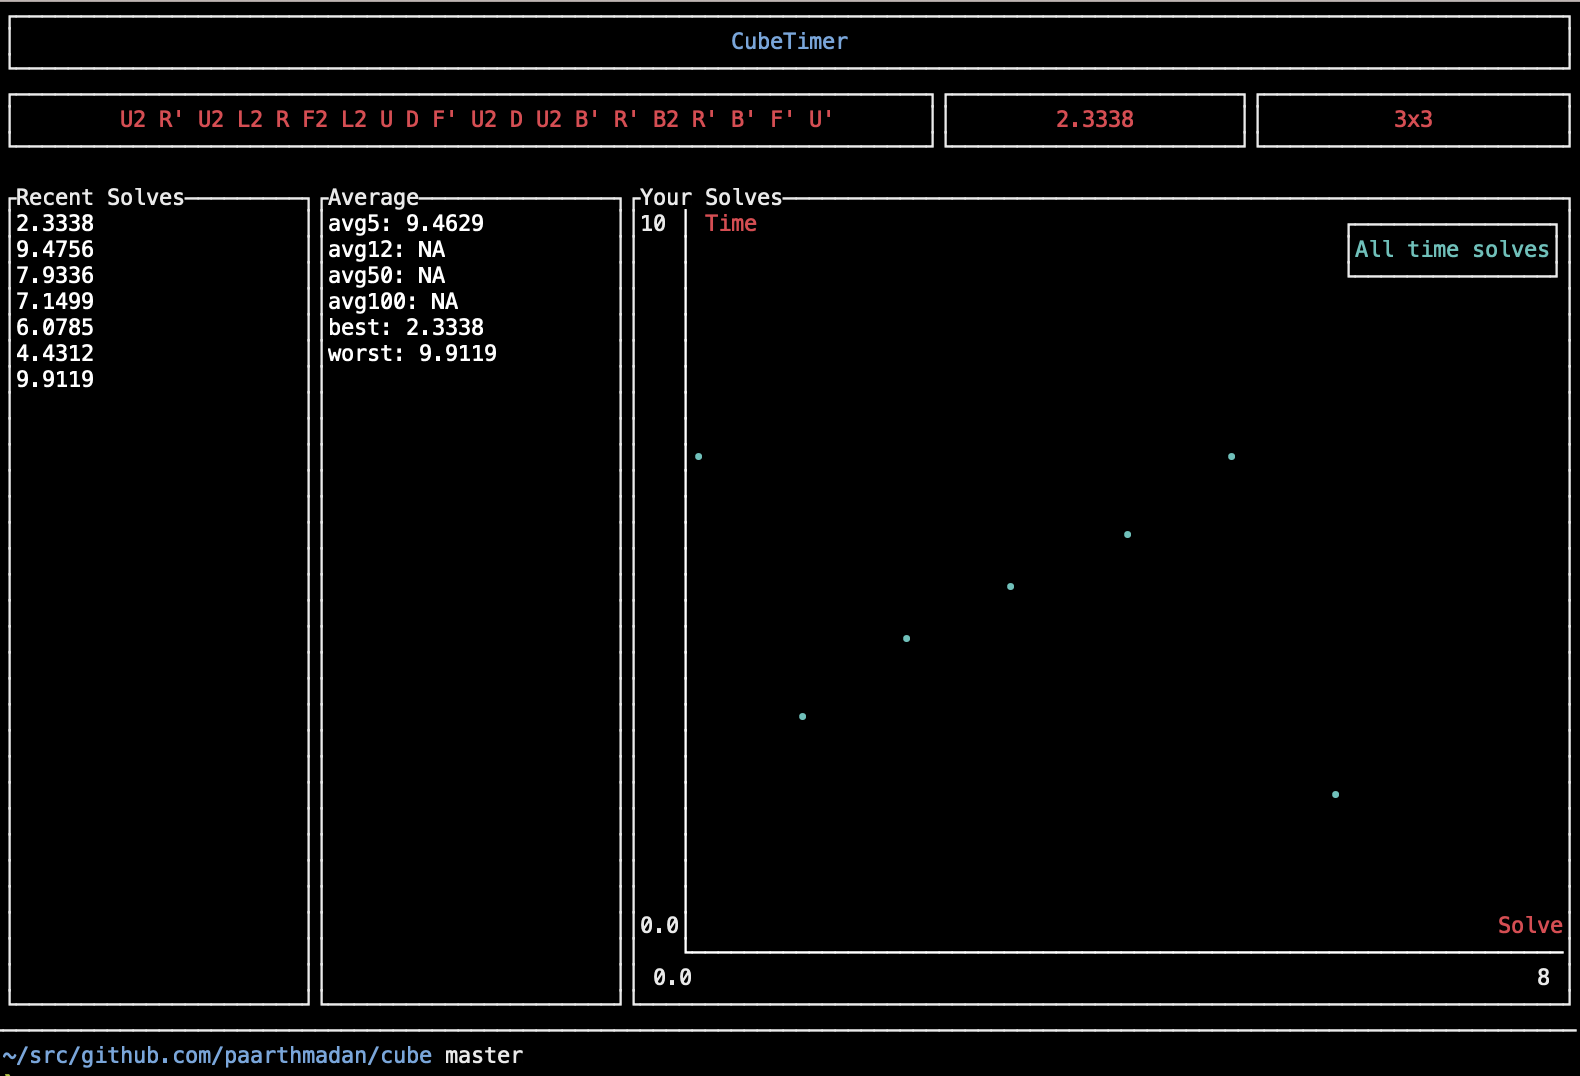
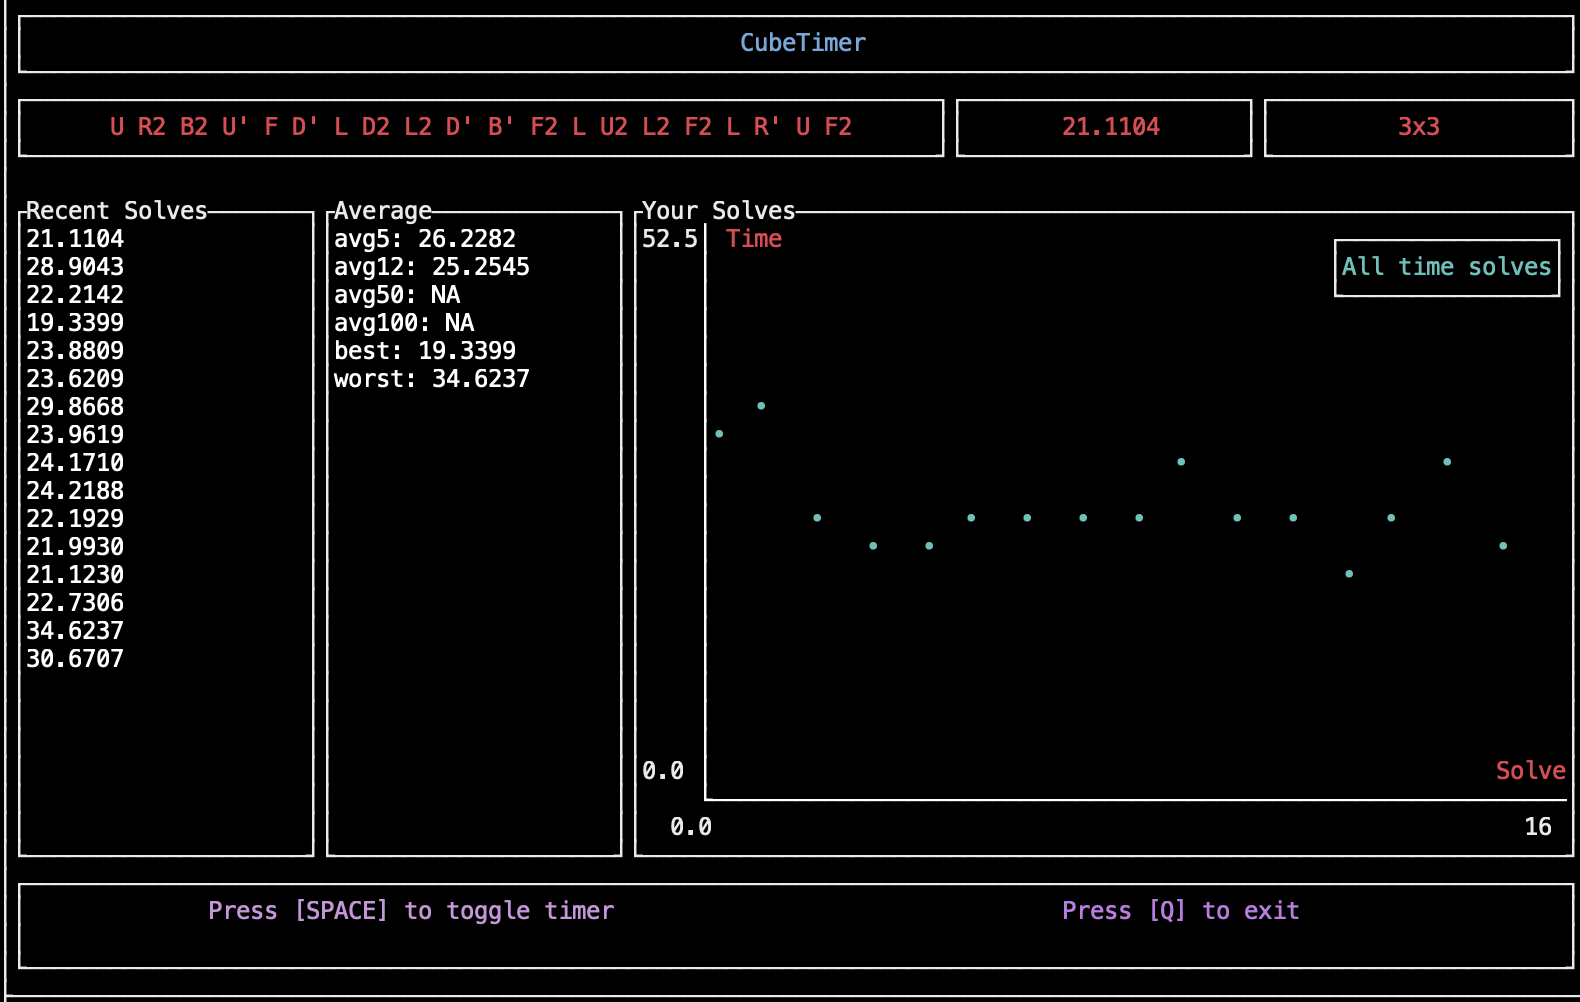
Add instruction panel

Changed region(s): [[0.0, 0.0, 1.0, 1.0], [0.4342, 0.4022, 0.4652, 0.4331]]

diff --git a/src/ui/draw.rs b/src/ui/draw.rs
@@ -14,7 +14,8 @@ pub fn draw_screen<B: Backend>(f: &mut Frame<B>, app: &App) {
             [
                 Constraint::Percentage(10),
                 Constraint::Percentage(10),
-                Constraint::Percentage(80),
+                Constraint::Percentage(70),
+                Constraint::Percentage(10),
             ]
             .as_ref(),
         )
@@ -23,6 +24,7 @@ pub fn draw_screen<B: Backend>(f: &mut Frame<B>, app: &App) {
     draw_title(f, layout[0]);
     draw_solve_info(f, layout[1], builder::SolveInfo::from(app));
     draw_stats(f, layout[2], builder::Stats::from(app));
+    draw_instructions(f, layout[3]);
 }
 
 fn draw_title<B: Backend>(f: &mut Frame<B>, section: Rect) {
@@ -148,3 +150,30 @@ fn draw_graph<B: Backend>(f: &mut Frame<B>, section: Rect, graph: builder::Graph
         .render(f, section);
 }
 
+fn draw_instructions<B: Backend>(f: &mut Frame<B>, section: Rect) {
+    let instructions = Layout::default()
+        .direction(Direction::Horizontal)
+        .constraints(
+            [
+                Constraint::Percentage(50),
+                Constraint::Percentage(50),
+            ]
+            .as_ref(),
+        )
+        .split(section);
+
+    let top_bottom = Borders::TOP | Borders::BOTTOM;
+
+    Paragraph::new([Text::styled("Press [SPACE] to toggle timer", Style::default().fg(Color::Magenta))].iter())
+        .block(Block::default().borders(top_bottom | Borders::LEFT))
+        .alignment(Alignment::Center)
+        .wrap(true)
+        .render(f, instructions[0]);
+
+ 
+    Paragraph::new([Text::styled("Press [Q] to exit", Style::default().fg(Color::LightMagenta))].iter())
+        .block(Block::default().borders(top_bottom | Borders::RIGHT))
+        .alignment(Alignment::Center)
+        .wrap(true)
+        .render(f, instructions[1]);
+}
